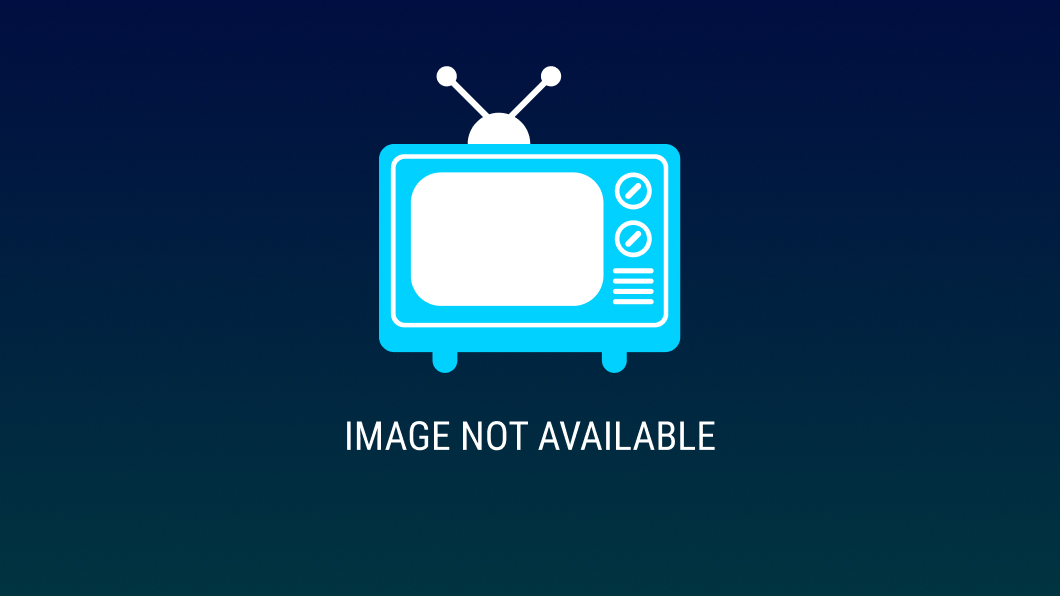
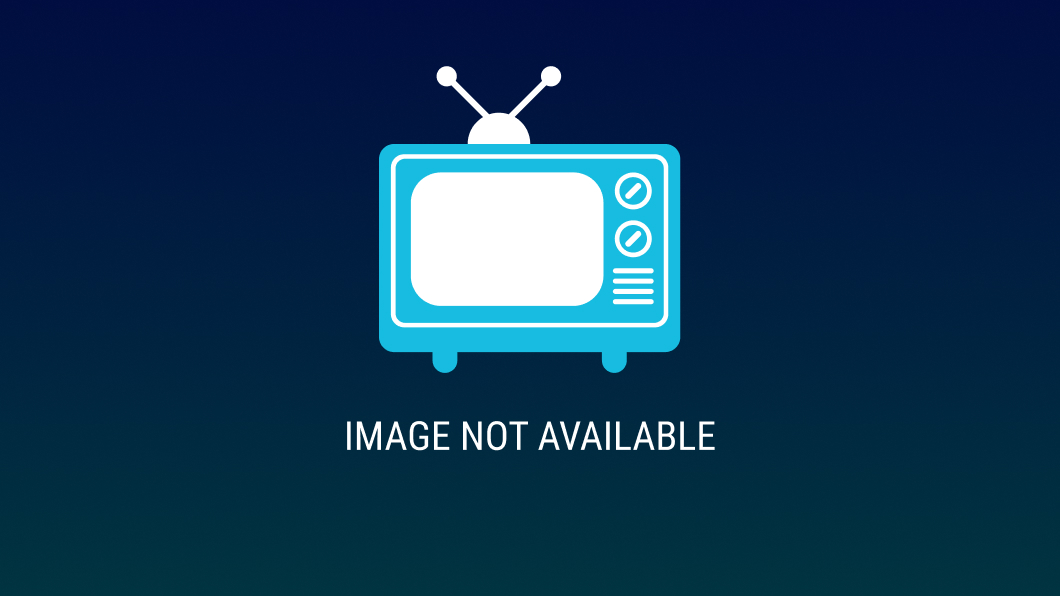
Changed shade of blue

Changed region(s): [[0.3425, 0.2416, 0.6538, 0.6342]]

diff --git a/frontend/src/index.js b/frontend/src/index.js
@@ -10,7 +10,7 @@ const theme = {
   color: {
     primary: '#282D40',
     secondary: '#474C5E',
-    tertiary: '#00D1FF'
+    tertiary: '#17BCE0'
   },
   space: {
     small: '10px',
